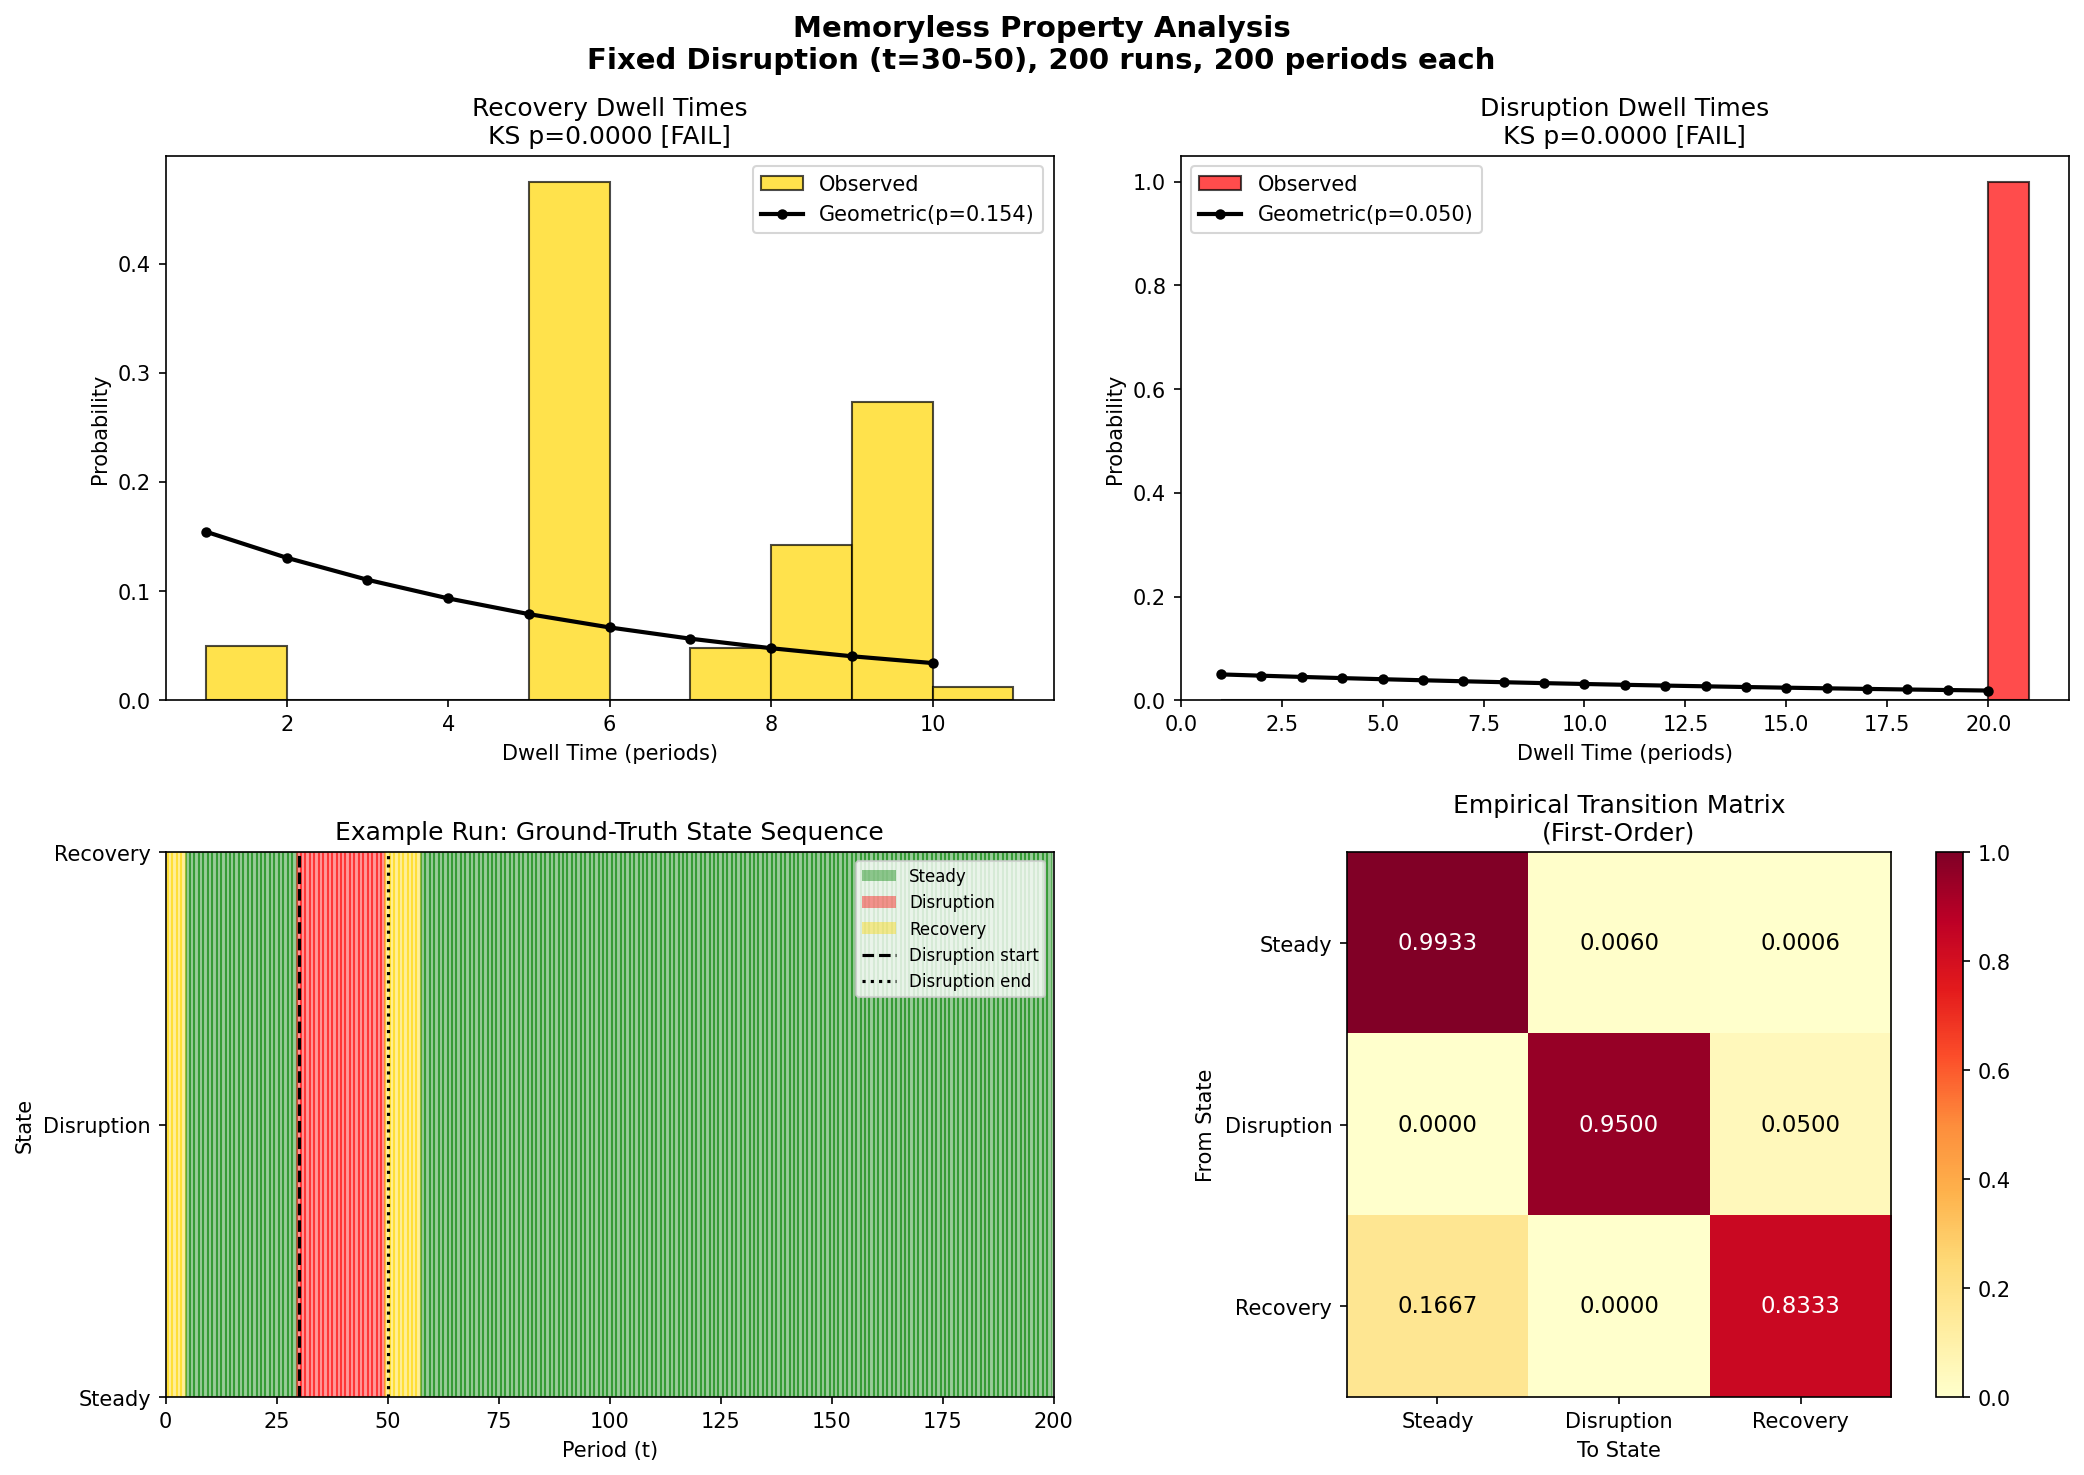
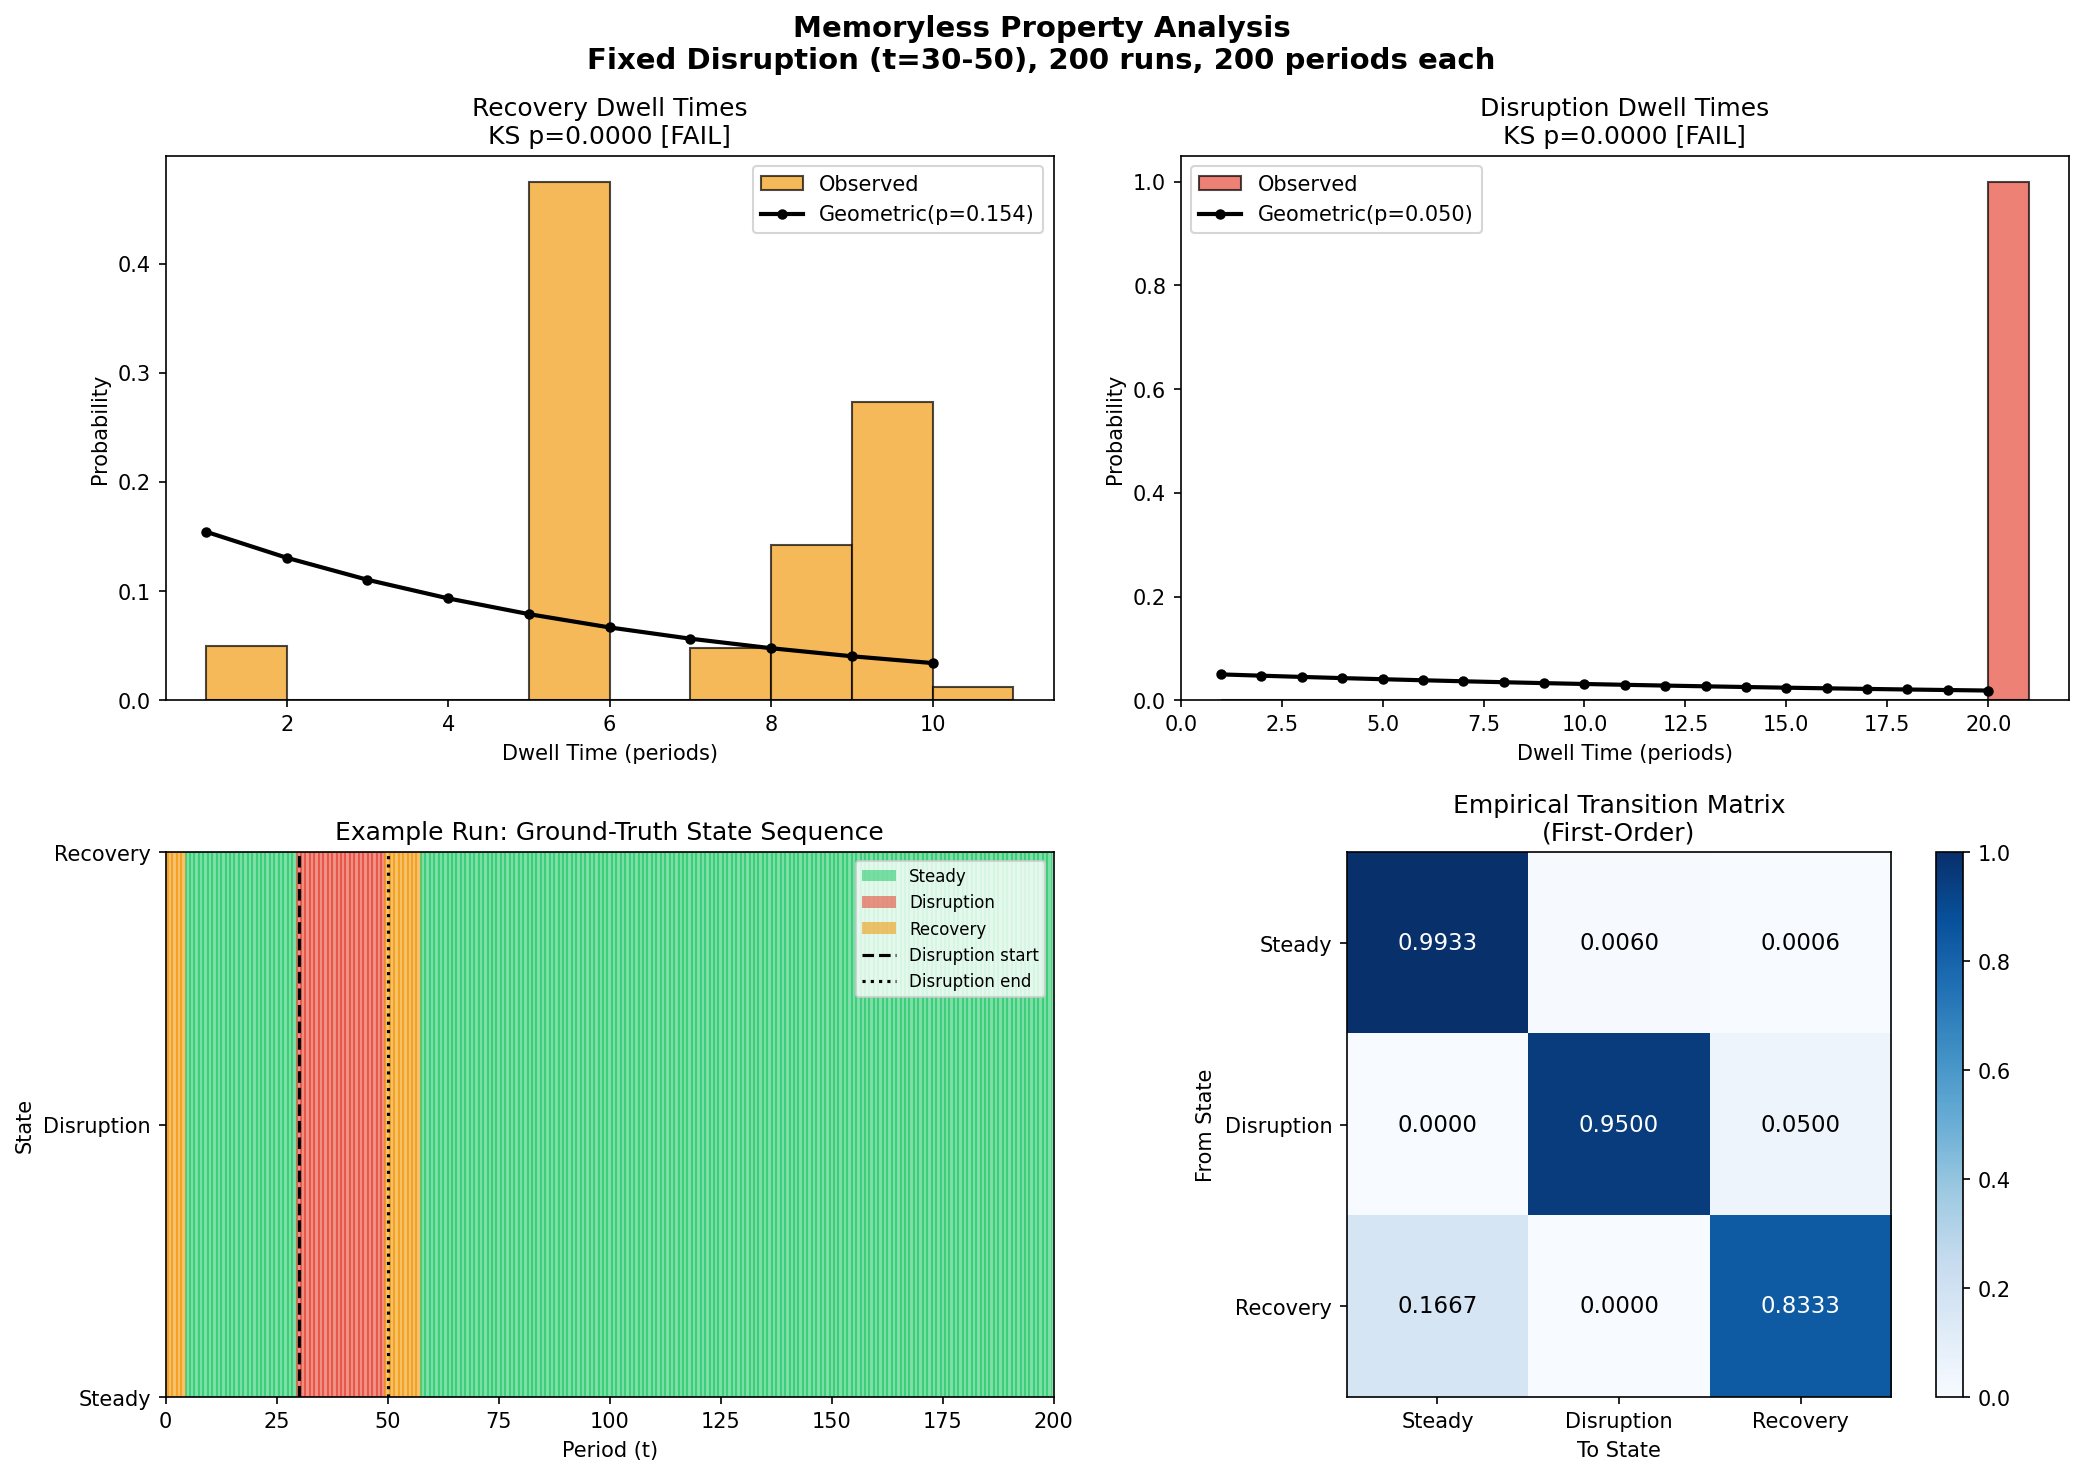
Restyle memoryless property figure to match project palette; wrap up notes
Memoryless plot (test_memoryless.py):
- Transition matrix heatmap: cmap YlOrRd -> Blues (matches confusion_matrix
  and Transition Matrix A).
- Dwell-time histograms and state-sequence strip: use canonical
  STATE_COLORS palette (Steady green, Disruption red, Recovery orange)
  instead of the ad-hoc green/red/gold, so this figure is visually
  consistent with hero_figure.png, forward_probabilities.png, etc.
- Same run (200 fixed-duration sims, seeded) so the numbers are identical
  to report.md Section 3.2: mean Disruption dwell 20.0 exact,
  mean Recovery dwell 6.5, LR stat 175.70, df=12, p<0.001.
- Propagated to p08/results/ and p04/results/ archives (figure is
  p-invariant -- fixed-duration, not Geometric).

experiment_notes.md:
- Added wrap-up sections covering the confusion-matrix restyle, overall
  project status table, out-of-scope register, and useful reproduction
  commands.

diff --git a/hmm_project/test_memoryless.py b/hmm_project/test_memoryless.py
@@ -313,6 +313,10 @@ def run_test():
               " | ".join(f"{STATE_NAMES[j]}: {probs[j]:.4f}" for j in range(3)))
 
     # --- PLOTS ---
+    # Canonical state palette matching visualize.STATE_COLORS so this figure
+    # looks consistent with the rest of the report.
+    STATE_PALETTE = {STEADY: '#2ecc71', DISRUPTION: '#e74c3c', RECOVERY: '#f39c12'}
+
     fig, axes = plt.subplots(2, 2, figsize=(14, 10))
     fig.suptitle("Memoryless Property Analysis\n"
                  f"Fixed Disruption (t={DISRUPTION_START}-{DISRUPTION_END}), "
@@ -326,7 +330,8 @@ def run_test():
         if len(dwells) > 5:
             max_dwell = max(dwells)
             bins = range(1, max_dwell + 2)
-            ax.hist(dwells, bins=bins, density=True, alpha=0.7, color=['gold', 'red'][idx],
+            ax.hist(dwells, bins=bins, density=True, alpha=0.7,
+                    color=STATE_PALETTE[s],
                     edgecolor='black', label='Observed')
 
             # Geometric fit overlay
@@ -351,16 +356,15 @@ def run_test():
     ax = axes[1, 0]
     example_run = all_state_sequences[0]
     t_range = range(len(example_run))
-    colors = {STEADY: 'green', DISRUPTION: 'red', RECOVERY: 'gold'}
     for t in t_range:
-        ax.axvspan(t - 0.5, t + 0.5, alpha=0.4, color=colors[example_run[t]])
+        ax.axvspan(t - 0.5, t + 0.5, alpha=0.6, color=STATE_PALETTE[example_run[t]])
     ax.axvline(x=DISRUPTION_START, color='black', linestyle='--', linewidth=1.5, label='Disruption start')
     ax.axvline(x=DISRUPTION_END, color='black', linestyle=':', linewidth=1.5, label='Disruption end')
     # Add legend patches
     from matplotlib.patches import Patch
-    legend_patches = [Patch(facecolor='green', alpha=0.4, label='Steady'),
-                      Patch(facecolor='red', alpha=0.4, label='Disruption'),
-                      Patch(facecolor='gold', alpha=0.4, label='Recovery')]
+    legend_patches = [Patch(facecolor=STATE_PALETTE[STEADY], alpha=0.6, label='Steady'),
+                      Patch(facecolor=STATE_PALETTE[DISRUPTION], alpha=0.6, label='Disruption'),
+                      Patch(facecolor=STATE_PALETTE[RECOVERY], alpha=0.6, label='Recovery')]
     ax.legend(handles=legend_patches + ax.get_legend_handles_labels()[0], loc='upper right', fontsize=8)
     ax.set_xlabel("Period (t)")
     ax.set_ylabel("State")
@@ -378,7 +382,7 @@ def run_test():
         if total_from > 0:
             trans_matrix[i, :] = [r / total_from for r in row]
 
-    im = ax.imshow(trans_matrix, cmap='YlOrRd', vmin=0, vmax=1)
+    im = ax.imshow(trans_matrix, cmap='Blues', vmin=0, vmax=1)
     for i in range(3):
         for j in range(3):
             ax.text(j, i, f"{trans_matrix[i, j]:.4f}",

diff --git a/hmm_project/experiment_notes.md b/hmm_project/experiment_notes.md
@@ -430,3 +430,111 @@ structural validation at the level of physical dynamics.
 The scatter plots and these findings now live in `report.md` Section 4.4
 (*Deterministic Recovery Clearing Rate*). Figure numbering in the existing
 Section 7.4 was bumped from 7–9 to 10–12 to accommodate the new Figures 7–9.
+
+### Presentation advice note
+
+During review the user asked whether presenting the naive-then-coupled arc
+(start with slope $= 0.267$, observe empirical $\approx 0.55$, then explain
+via DR base-stock reordering dynamics) was overcomplicating things versus
+just deriving the $\approx 0.5$ slope up front. Written answer captured for
+reference:
+
+- **Keep the arc in the written report** — the journey is pedagogically
+  defensible and the coupled-system derivation is not a one-line result.
+- **For the slide deck, lead with regime-invariance** — the headline is
+  "two regimes produce the same slope (0.58 vs. 0.54)," not "the slope
+  value is X." Whether the slope equals 0.267 or 0.55 is secondary; the
+  fact that **it is** $p$-invariant is what the project demonstrates.
+- **Coupled explanation belongs as a footnote / backup slide**, expanded
+  only if a sharp audience member asks why empirical differs from naive.
+
+---
+
+## 6. Cosmetic Cleanup: Viterbi Confusion Matrix Restyling — COMPLETED
+
+Pure cosmetic change, no data or model touched:
+
+- `plot_confusion_matrix()` in `visualize.py`: `cmap='YlOrRd'` → `cmap='Blues'`
+  (matches the 3×3 Transition Matrix $A$ styling in `trained_matrices.png`).
+- `figsize=(7, 6)` → `figsize=(5.5, 4.5)` (~30% smaller); font sizes trimmed
+  slightly for the smaller frame.
+
+All three archived PNGs regenerated from the saved
+`evaluation_results.npz` arrays (no re-evaluation). Verified every cell
+value matches `report.md` Sections 6.4 and 7.4 to the integer:
+
+- $p = 0.08$ baseline: diag 1630 / 84 / 206, row totals 1734 / 357 / 309,
+  overall accuracy 80.0%.
+- $p = 0.04$ robustness: diag 3216 / 464 / 227, row totals 3326 / 731 / 443,
+  overall accuracy 86.8%.
+
+Output files overwritten in place (so `report.md` figure paths keep resolving
+to the restyled PNGs):
+- `hmm_project/p08/results/confusion_matrix.png`
+- `hmm_project/p04/results/confusion_matrix.png`
+- `hmm_project/results/confusion_matrix.png`
+
+---
+
+## 7. Final Project Status
+
+The course project is essentially feature-complete. Below is a single place
+to see what's done versus what's intentionally deferred.
+
+### Completed
+
+| Step | Status | Home in `report.md` | Archive |
+|---|---|---|---|
+| Step 0 — baseline HMM pipeline (MN→DR→HC, $N=3$, $M=6$) | ✓ | Sections 1–7.3 | `p08/` |
+| Step 1 — MN safety-stock initialization | **reverted** | not in report | — |
+| Step 2 — halved $p$ robustness check ($p=0.04$, `SIM_PERIODS=150`) | ✓ | Section 7.4 | `p04/` |
+| Step 3 — recovery-vs-disruption scatter (deterministic clearing rate) | ✓ | Section 4.4 | `{p08,p04}/results/recovery_vs_disruption.png`, `results/recovery_vs_disruption_combined.png` |
+| Regression-assumption battery on the scatter | ✓ | summarized in Section 4.4; panels archived | `{p08,p04}/results/regression_diagnostics.png`, `results/regression_diagnostics_summary.json` |
+| Confusion-matrix restyling (Blues, compact) | ✓ | Figures 6 and 12 | archived |
+| Code committed + pushed to GitHub | ✓ | `https://github.com/riordanaa/supply-chain-hmm` | master branch |
+
+Final commit chain on `master`:
+- `b6f7d99` — original baseline snapshot (pre-project work)
+- `f64fb8c` — Step 2: $p=0.04$ robustness + `p08/` & `p04/` consolidation
+- `6092df6` — Step 3: scatter + deterministic clearing rate Section 4.4
+- `5be1e09` — Viterbi confusion matrix Blues restyle
+
+### Intentionally out of scope (documented so future-you doesn't
+                                   wonder why they're missing)
+
+| Not done | Reason |
+|---|---|
+| 2×2×2 = $M=8$ observation space with MN Fill Rate as a leading indicator | Out of scope per the user's Step 3 triage — would be valuable for beating the 10.2-week detection lag but is its own project. |
+| Renewal-theory / expected-remaining-duration treatment | Substituted with the existing Geometric self-transition argument ($\text{E}[\text{remaining}] = 1/(1 - \hat{a}_{11})$); see `report.md` Section 2.5. |
+| Optimal threshold policy / POMDP / SARSA on HMM output | Out of scope; mentioned only qualitatively in the Conclusion / Discussion. |
+| Second distributor (DR2) | Out of scope — would break the current 1-MN/1-DR/1-HC wrapper and require changes to the underlying simulator. |
+
+### Useful commands for future-you
+
+Reproduce either regime from scratch:
+```bash
+cp hmm_project/p08/config_snapshot.py hmm_project/config.py   # or p04/
+python hmm_project/run_pipeline.py
+```
+
+Regenerate only the scatter + combined:
+```bash
+cd hmm_project
+python -c "from visualize import plot_recovery_vs_disruption, plot_recovery_vs_disruption_combined; \
+  plot_recovery_vs_disruption('p08/data/processed', 'p08/results/recovery_vs_disruption.png', title_suffix=' (p = 0.08)'); \
+  plot_recovery_vs_disruption('p04/data/processed', 'p04/results/recovery_vs_disruption.png', title_suffix=' (p = 0.04)'); \
+  plot_recovery_vs_disruption_combined([ \
+    {'processed_dir':'p08/data/processed','label':'p = 0.08','color':'#3498db'}, \
+    {'processed_dir':'p04/data/processed','label':'p = 0.04','color':'#e67e22'}], \
+    'results/recovery_vs_disruption_combined.png')"
+```
+
+Rerun the regression-assumption diagnostics:
+```bash
+cd hmm_project && python regression_diagnostics.py
+```
+
+Convert the report to PDF / HTML for submission:
+```bash
+cd hmm_project && python generate_pdf.py   # or generate_html.py
+```
